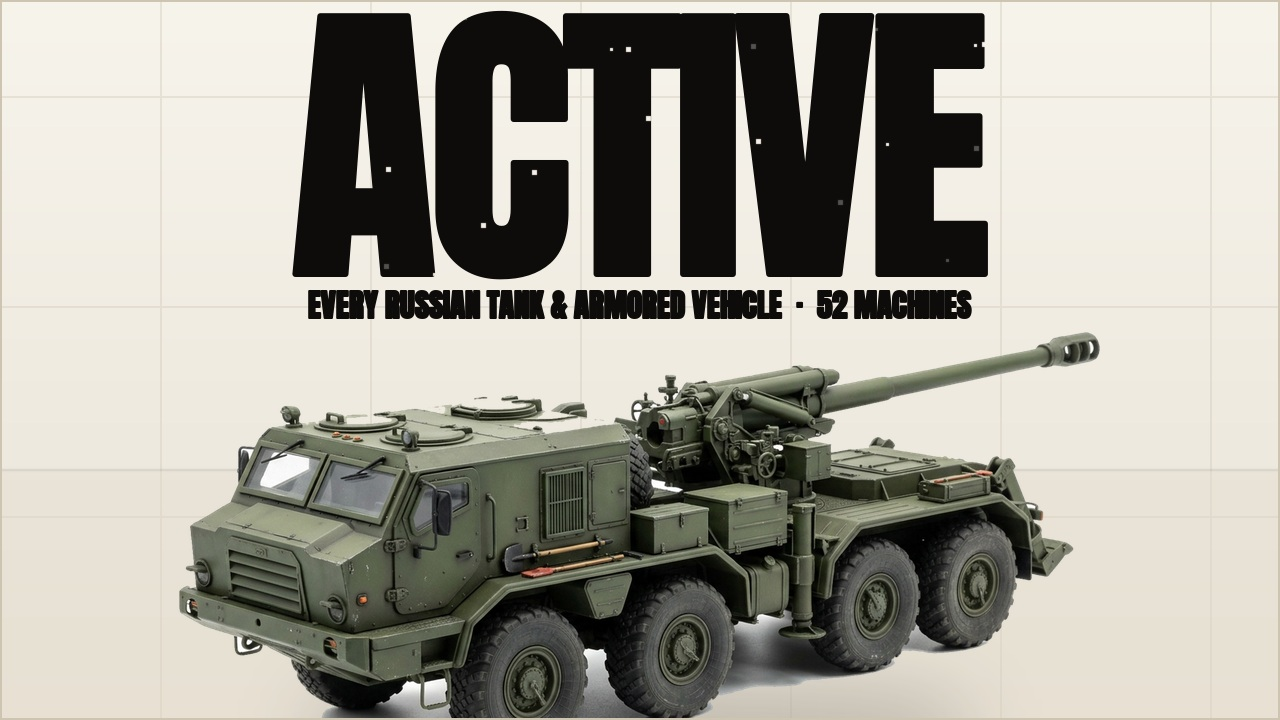
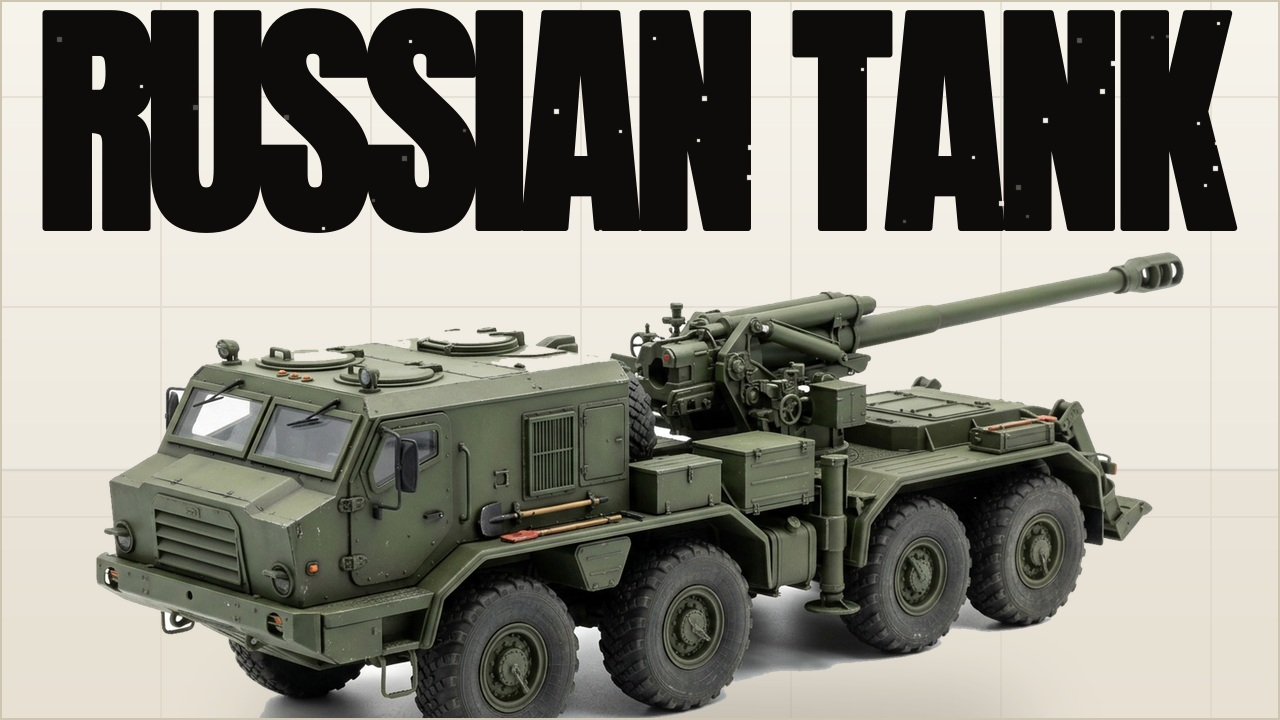
thumbnail: single RUSSIAN TANK headline in Anton, reference layout (no body text)

diff --git a/pipeline/thumbnail_v3.py b/pipeline/thumbnail_v3.py
@@ -31,7 +31,7 @@ def _font(size):
     return ImageFont.truetype(FACE, size)
 
 
-def line_at_cap(text, cap, tracking=0, stroke=2):
+def line_at_cap(text, cap, tracking=0, stroke=2, space=0.24):
     """Render one line whose capital height == cap px (Anton 'H' ratio based)."""
     probe = _font(200)
     h_ref = probe.getbbox("H", stroke_width=0)[3] - probe.getbbox("H", stroke_width=0)[1]
@@ -39,12 +39,18 @@ def line_at_cap(text, cap, tracking=0, stroke=2):
     f = _font(size)
     pad = 24 + stroke
     box = f.getbbox(text, stroke_width=stroke)
-    w = int(f.getlength(text) + tracking * (len(text) - 1)) + 2 * pad
+    span = f.getlength(text)
+    span -= f.getlength(" ") * text.count(" ")          # swap the font's space
+    span += int(space * cap) * text.count(" ")
+    w = int(span + tracking * (len(text) - 1)) + 2 * pad
     h = box[3] - box[1] + 2 * pad
     layer = Image.new("RGBA", (max(2, w), max(2, h)), (0, 0, 0, 0))
     d = ImageDraw.Draw(layer)
     x, y = pad, pad - box[1]
     for ch in text:
+        if ch == " ":
+            x += int(space * cap) + tracking
+            continue
         d.text((x, y), ch, font=f, fill=INK + (255,), stroke_width=stroke,
                stroke_fill=INK + (255,))
         x += f.getlength(ch) + tracking
@@ -84,7 +90,7 @@ def tracked_line(text, cap, tracking, stroke=1):
 
 
 # ---------------------------------------------------------------- page
-def build(vehicle, out, hook, kicker, vh, gap_after_hook, top, cap=0, spread=False, spread_w=1246, ktrack=6, kcap=30):
+def build(vehicle, out, hook, kicker, vh, gap_after_hook, top, cap=0, spread=False, spread_w=1246, ktrack=6, kcap=30, xfill=False):
     canvas = studio_bg()
 
     veh = edge_fix(R.cutout(R.render_path("renders", vehicle), 1200))
@@ -96,7 +102,11 @@ def build(vehicle, out, hook, kicker, vh, gap_after_hook, top, cap=0, spread=Fal
                                           int(vw * 0.46), 22), (0, 0))
     canvas.alpha_composite(veh, (vx, vy))
 
-    if spread:
+    if xfill:
+        lay = line_at_cap(hook, cap or 190, tracking=-6, stroke=3)
+        print("  natural", lay.width, "-> stretch x%.2f" % (1246.0 / lay.width))
+        big = lay.resize((1246, lay.height), Image.LANCZOS)
+    elif spread:
         big = spread_line(hook, cap or 200, spread_w, stroke=3)
     elif cap:
         big = line_at_cap(hook, cap, tracking=-8, stroke=3)
@@ -108,7 +118,8 @@ def build(vehicle, out, hook, kicker, vh, gap_after_hook, top, cap=0, spread=Fal
     y = top
     canvas.alpha_composite(big, ((W - big.width) // 2, y))
     y += big.height + gap_after_hook
-    canvas.alpha_composite(small, ((W - small.width) // 2, y))
+    if kicker.strip():
+        canvas.alpha_composite(small, ((W - small.width) // 2, y))
 
     # vignette
     vig = Image.new("L", (W, H), 0)
@@ -138,8 +149,9 @@ if __name__ == "__main__":
     ap.add_argument("--top", type=int, default=18)
     ap.add_argument("--cap", type=int, default=0)
     ap.add_argument("--spread", action="store_true")
+    ap.add_argument("--xfill", action="store_true")
     ap.add_argument("--spread-w", type=int, default=1246)
     ap.add_argument("--ktrack", type=int, default=6)
     ap.add_argument("--kcap", type=int, default=30)
     a = ap.parse_args()
-    build(a.vehicle, a.out, a.hook, a.kicker, a.vh, a.gap, a.top, a.cap, a.spread, a.spread_w, a.ktrack, a.kcap)
+    build(a.vehicle, a.out, a.hook, a.kicker, a.vh, a.gap, a.top, a.cap, a.spread, a.spread_w, a.ktrack, a.kcap, a.xfill)

diff --git a/output/russian-armor-inventory-packaging.md b/output/russian-armor-inventory-packaging.md
@@ -6,18 +6,16 @@ Every Russian Tank & Armored Vehicle in Active Service (Full Breakdown)
 
 **Thumbnails**
 
-Hook-word set (Anton, heavy condensed — same lettering family as the reference):
+Single headline, `RUSSIAN TANK`, set in Anton — heavy condensed, worn, edge-to-edge
+across the top, exactly the reference layout (no sub-line, no other text):
 
-- `thumbnail-v3.jpg` — one-word hook **ACTIVE**, T-90M (primary)
-- `thumbnail-v3-truck.jpg` — same hook, 2S43 Malva (closest to the reference frame)
-- `thumbnail-v3-service.jpg` — hook **ACTIVE SERVICE** as an edge-to-edge line
+- `thumbnail-v3.jpg` — T-90M (primary)
+- `thumbnail-v3-truck.jpg` — 2S43 Malva (same frame as the reference)
 
-Earlier passes:
+Earlier passes (superseded):
 
-- `thumbnail-v2.jpg` / `thumbnail-v2-truck.jpg` — full title in two worn lines, DejaVu squeezed
+- `thumbnail-v2.jpg` / `thumbnail-v2-truck.jpg` — full title in two worn lines
 - `thumbnail.jpg` — catalogue style (serif, white, #CC0000)
-
-All of them carry the small kicker `EVERY RUSSIAN TANK & ARMORED VEHICLE · 52 MACHINES`.
 
 **Description**
 

diff --git a/README.md b/README.md
@@ -45,7 +45,7 @@ output/russian-armor-inventory.srt        full subtitles, one cue per vehicle
 output/russian-armor-inventory-packaging.md  title, description, chapters, tags
 output/thumbnail.jpg                      1280x720  (catalogue style)
 output/thumbnail-v2*.jpg                  full-title worn type, squeezed DejaVu
-output/thumbnail-v3*.jpg                  hook-word set in Anton (primary)
+output/thumbnail-v3*.jpg                  RUSSIAN TANK wordmark in Anton (primary)
 output/shorts-8-vehicles.mp4              vertical teaser 1080x1920 · 1:09 · one card per line
 ```
 
